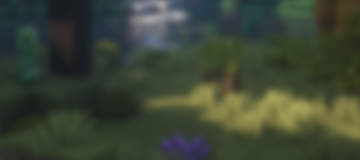
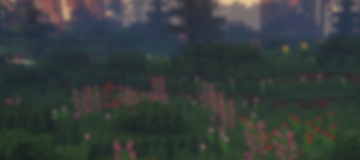
Косметические изменения

diff --git a/src/main/java/ru/simplemc/updater/gui/Frame.java b/src/main/java/ru/simplemc/updater/gui/Frame.java
@@ -166,7 +166,6 @@ public class Frame extends JFrame {
         }
 
         systemButton.setBounds(axisX, axisY, 48, 30);
-
         return systemButton;
     }
 
@@ -226,9 +225,8 @@ public class Frame extends JFrame {
 
             SimpleDateFormat simpleDateFormat = new SimpleDateFormat("HH");
             String currentHour = simpleDateFormat.format(System.currentTimeMillis());
-            String[] nightHours = {"17", "18", "19", "20", "21", "22", "23", "00", "01", "02", "03", "04", "05", "06"};
 
-            for (String nightHour : nightHours) {
+            for (String nightHour : Settings.NIGHT_HOURS) {
                 if (currentHour.equals(nightHour)) {
                     BACKGROUND_IMAGE = BACKGROUND_IMAGE.replace(BACKGROUND_IMAGE, BACKGROUND_IMAGE + "_night");
                     break;

diff --git a/src/main/java/ru/simplemc/updater/Settings.java b/src/main/java/ru/simplemc/updater/Settings.java
@@ -9,7 +9,7 @@ public class Settings {
     public static final int FRAME_HEIGHT = 160;
     public static final int FRAME_SHADOW_SIZE = 5;
     public static final String FRAME_TITLE = "SimpleMinecraft.Ru - Updater";
-
+    public static final String[] NIGHT_HOURS = {"20", "21", "22", "23", "00", "01", "03", "04", "05"};
     public static String BACKGROUND_IMAGE = "spring";
 
 }

diff --git a/src/main/java/ru/simplemc/updater/downloader/file/DownloaderFile.java b/src/main/java/ru/simplemc/updater/downloader/file/DownloaderFile.java
@@ -1,7 +1,6 @@
 package ru.simplemc.updater.downloader.file;
 
 import org.json.simple.JSONObject;
-import ru.simplemc.updater.Settings;
 import ru.simplemc.updater.utils.CryptUtils;
 import ru.simplemc.updater.utils.ProgramUtils;
 
